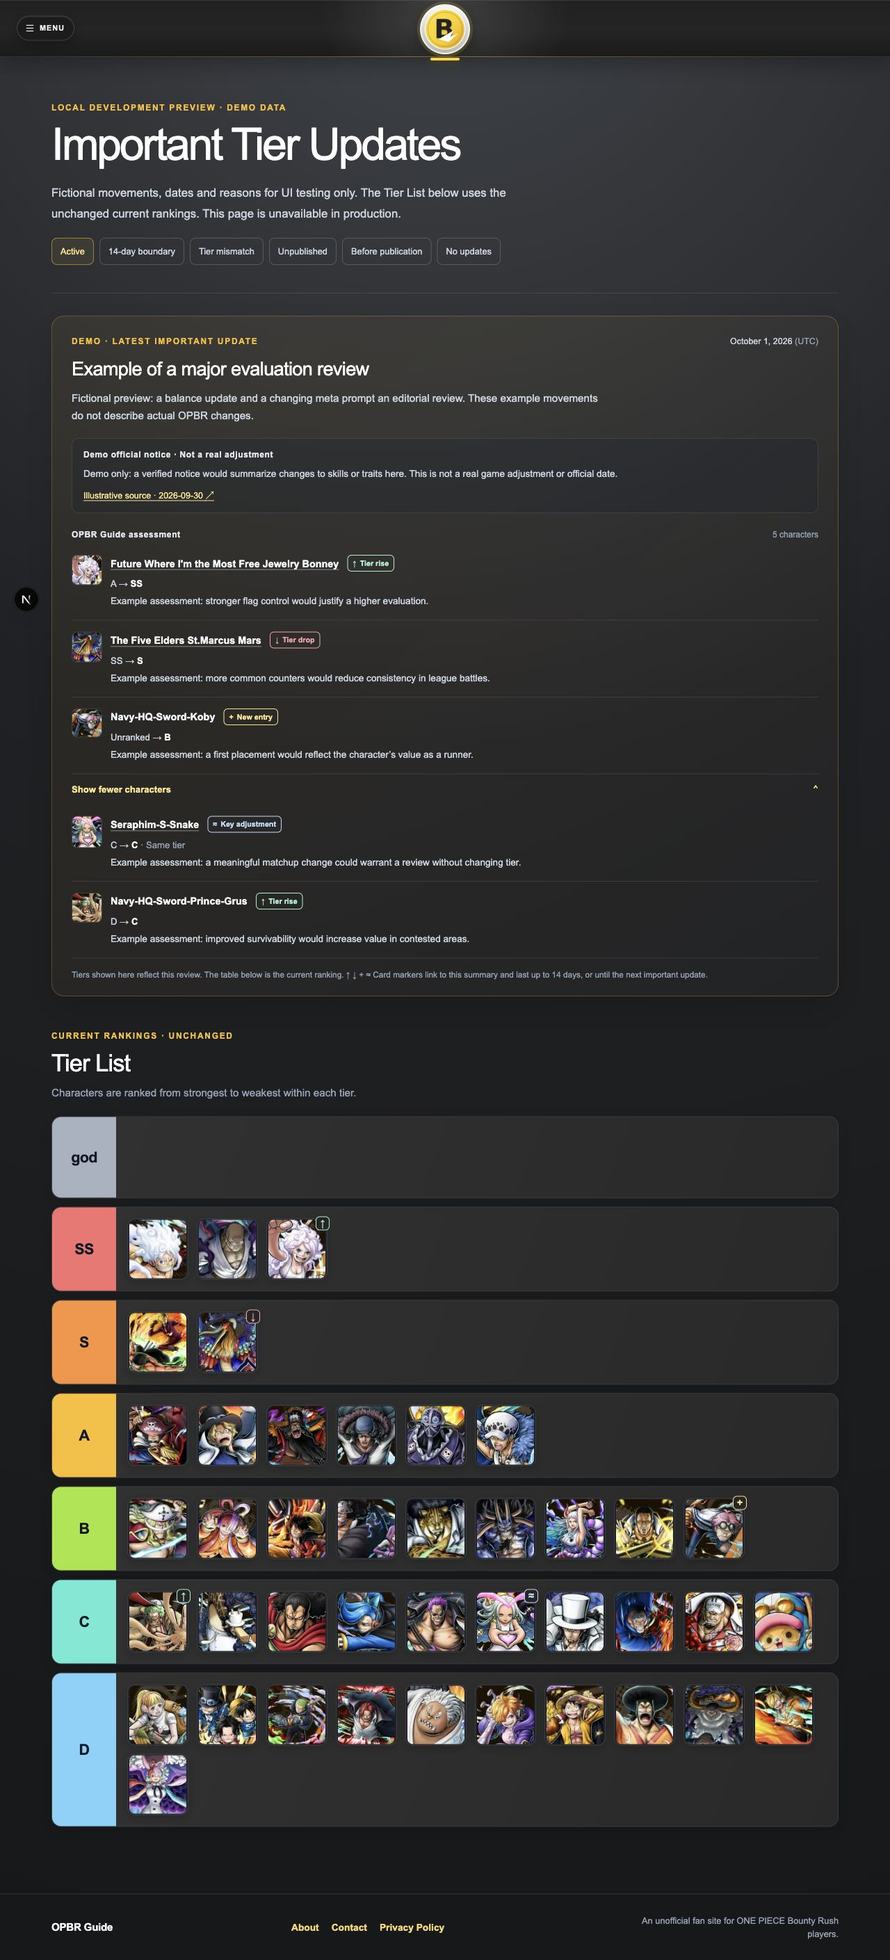
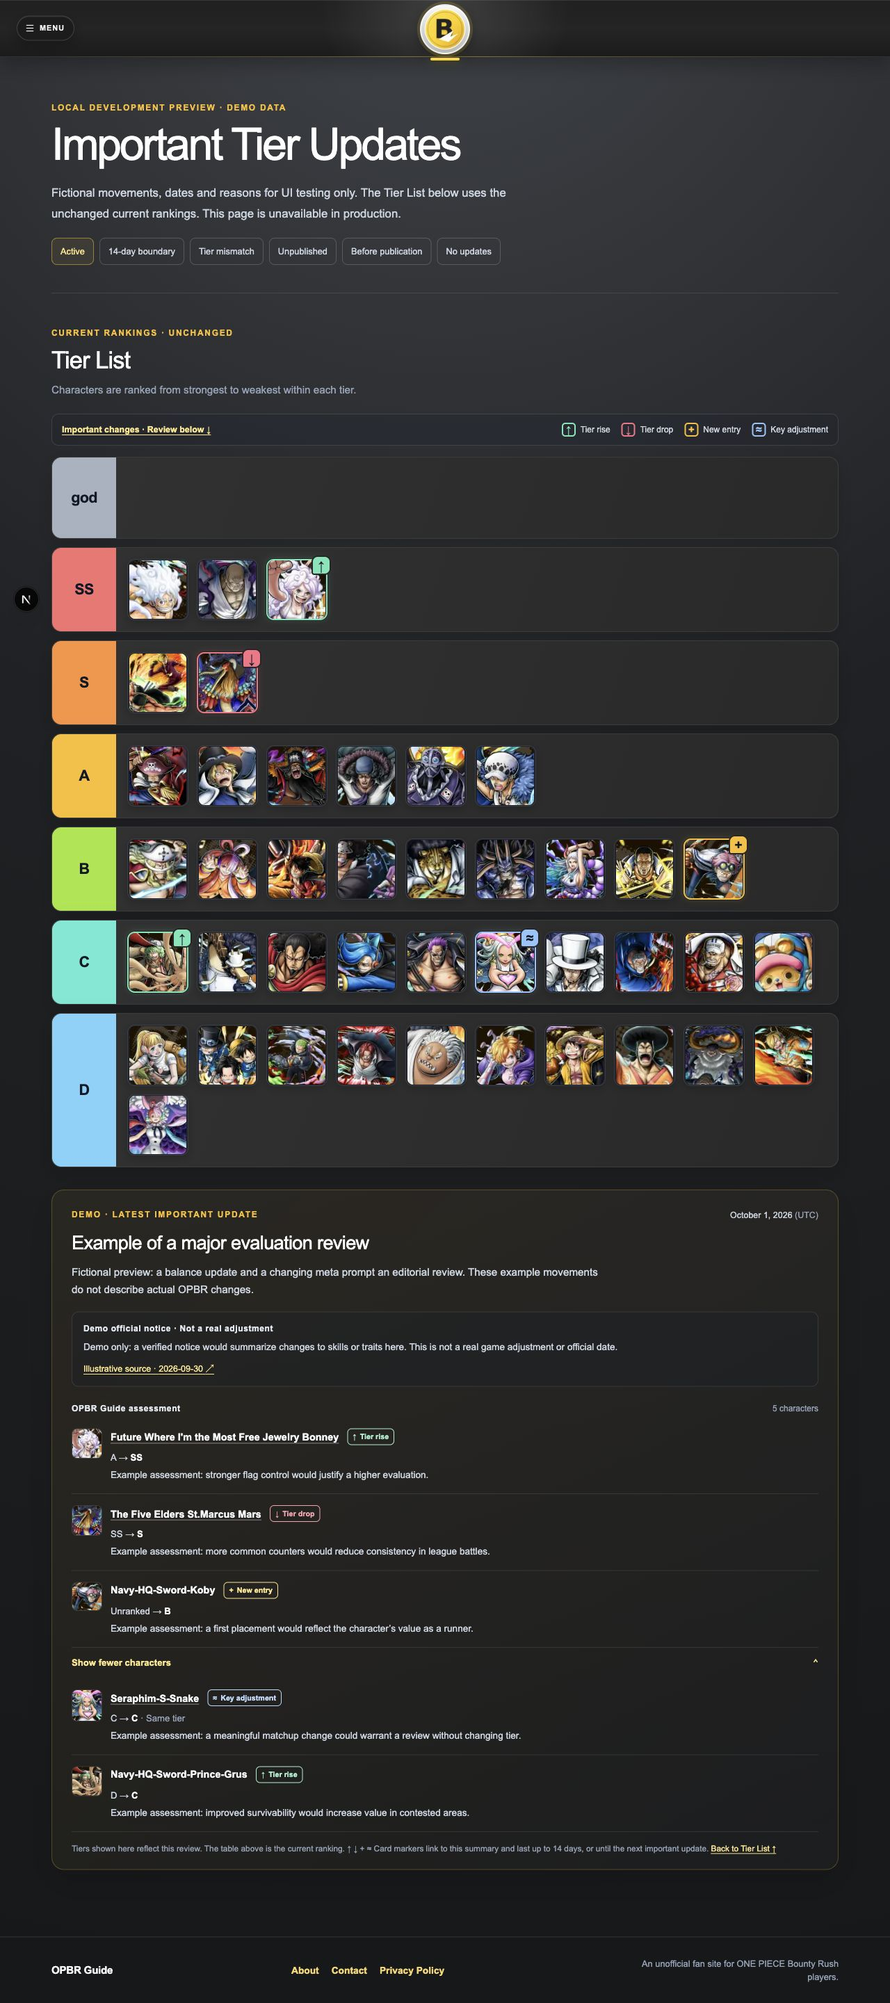
Move Tier update review below rankings and highlight card frames

diff --git a/src/components/tier-list/TierList.tsx b/src/components/tier-list/TierList.tsx
@@ -6,55 +6,59 @@ import { characters } from "@/data/characters/index";
 import { tierList } from "@/data/tierList";
 
 import TierUpdateBadge from "./TierUpdateBadge";
+import TierUpdateLegend from "./TierUpdateLegend";
 import type { TierUpdateBadge as Badge } from "@/lib/tier-important-updates";
 
 export default function TierList({ badges = {}, preview = false }: { badges?: Record<string, Badge>; preview?: boolean }) {
   return (
-    <div className={styles.tierList}>
-      {tierList.map((row, tierIndex) => (
-        <div key={row.tier} className={styles.tier}>
-          <div className={`${styles.tierLabel} ${styles[row.colorClass]}`}>
-            <p>{row.tier}</p>
-          </div>
+    <>
+      {Object.keys(badges).length > 0 && <TierUpdateLegend />}
+      <div className={styles.tierList}>
+        {tierList.map((row, tierIndex) => (
+          <div key={row.tier} className={styles.tier}>
+            <div className={`${styles.tierLabel} ${styles[row.colorClass]}`}>
+              <p>{row.tier}</p>
+            </div>
 
-          <div className={styles.tierContent}>
-            {row.characterIds.map((id, characterIndex) => {
-              const character = characters[id];
+            <div className={styles.tierContent}>
+              {row.characterIds.map((id, characterIndex) => {
+                const character = characters[id];
 
-              if (!character) {
-                return null;
-              }
-              const cardStyle = {
-                "--tier-index": tierIndex,
-                "--character-index": characterIndex,
-              } as CSSProperties;
+                if (!character) {
+                  return null;
+                }
+                const cardStyle = {
+                  "--tier-index": tierIndex,
+                  "--character-index": characterIndex,
+                } as CSSProperties;
 
-              return (
-                <div
-                  key={character.id}
-                  className={styles.characterCard}
-                  style={cardStyle}
-                >
-                  <CharacterGuideLink
-                    characterId={character.id}
-                    characterName={character.name}
-                    className={styles.characterGuideLink}
+                return (
+                  <div
+                    key={character.id}
+                    className={styles.characterCard}
+                    style={cardStyle}
                   >
-                    <Image
-                      src={character.image}
-                      alt={character.name}
-                      width={84}
-                      height={84}
-                      className={styles.characterImage}
-                    />
-                  </CharacterGuideLink>
-                  {badges[id] && <TierUpdateBadge badge={badges[id]} characterName={character.name} preview={preview} />}
-                </div>
-              );
-            })}
+                    <CharacterGuideLink
+                      characterId={character.id}
+                      characterName={character.name}
+                      className={styles.characterGuideLink}
+                    >
+                      <Image
+                        src={character.image}
+                        alt={character.name}
+                        width={84}
+                        height={84}
+                        className={styles.characterImage}
+                      />
+                    </CharacterGuideLink>
+                    {badges[id] && <TierUpdateBadge badge={badges[id]} characterName={character.name} preview={preview} />}
+                  </div>
+                );
+              })}
+            </div>
           </div>
-        </div>
-      ))}
-    </div>
+        ))}
+      </div>
+    </>
   )
 }

diff --git a/src/components/tier-list/TierUpdateBadge.module.css b/src/components/tier-list/TierUpdateBadge.module.css
@@ -1,7 +1,48 @@
-.badge { position: absolute; z-index: 2; top: -4px; right: -4px; display: flex; align-items: center; justify-content: center; width: 20px; height: 20px; border: 1px solid currentColor; border-radius: 6px; background: #262626; font-size: 14px; line-height: 1; font-weight: 800; }
-.rise { color: #a7f3d0; }
-.fall { color: #fda4af; }
-.new { color: #fde68a; }
-.adjustment { color: #bfdbfe; }
-.badge:focus-visible { outline: 3px solid #fbbf24; outline-offset: 2px; }
-@media (max-width: 640px) { .badge { width: 15px; height: 15px; top: -3px; right: -3px; border-radius: 4px; font-size: 11px; } }
+.rise { --change-color: #6ee7b7; --change-glow: rgb(110 231 183 / 25%); }
+.fall { --change-color: #fb7185; --change-glow: rgb(251 113 133 / 25%); }
+.new { --change-color: #fbbf24; --change-glow: rgb(251 191 36 / 25%); }
+.adjustment { --change-color: #93c5fd; --change-glow: rgb(147 197 253 / 25%); }
+
+.frame {
+  position: absolute;
+  z-index: 2;
+  inset: -1px;
+  border: 2px solid var(--change-color);
+  border-radius: inherit;
+  box-shadow: 0 0 0 1px #262626, 0 0 10px var(--change-glow);
+  pointer-events: none;
+}
+.badge {
+  position: absolute;
+  top: -5px;
+  right: -5px;
+  display: flex;
+  align-items: center;
+  justify-content: center;
+  width: 24px;
+  height: 24px;
+  border: 1px solid var(--change-color);
+  border-radius: 7px 7px 7px 2px;
+  background: var(--change-color);
+  box-shadow: 0 0 0 2px #262626;
+  color: #111827;
+  font-size: 19px;
+  line-height: 1;
+  font-weight: 900;
+  pointer-events: auto;
+}
+.frame:has(.badge:focus-visible) { outline: 3px solid #fff; outline-offset: 3px; }
+.badge:focus-visible { outline: 2px solid #111827; outline-offset: -3px; }
+
+.legend { display: flex; flex-wrap: wrap; align-items: center; justify-content: space-between; gap: 12px; margin-bottom: 16px; padding: 12px 14px; border: 1px solid rgb(255 255 255 / 12%); border-radius: 10px; background: rgb(15 23 42 / 15%); }
+.legendLink { color: #fde68a; font-size: .78rem; font-weight: 700; line-height: 1.6; text-decoration: underline; text-underline-offset: 3px; }
+.legendLink:focus-visible { outline: 3px solid #fbbf24; outline-offset: 4px; }
+.legend ul { display: flex; flex-wrap: wrap; gap: 12px 16px; list-style: none; margin: 0; padding: 0; }
+.legend li { display: flex; align-items: center; gap: 7px; color: #cbd5e1; font-size: .75rem; }
+.legendSymbol { display: flex; align-items: center; justify-content: center; width: 20px; height: 20px; border: 2px solid var(--change-color); border-radius: 5px; color: var(--change-color); font-size: 15px; line-height: 1; font-weight: 900; }
+
+@media (max-width: 640px) {
+  .badge { width: 18px; height: 18px; top: -4px; right: -4px; border-radius: 5px 5px 5px 1px; font-size: 15px; box-shadow: 0 0 0 1px #262626; }
+  .legend { padding: 12px; gap: 10px; }
+  .legend ul { display: grid; grid-template-columns: repeat(2, minmax(0, 1fr)); gap: 10px 14px; width: 100%; }
+}

diff --git a/src/components/tier-list/ImportantTierUpdate.tsx b/src/components/tier-list/ImportantTierUpdate.tsx
@@ -25,7 +25,7 @@ function Change({ change, currentTier }: { change: ImportantTierChange; currentT
           {change.kind === "adjustment" && <span className={styles.sameTier}> · Same tier</span>}
         </p>
         <p className={styles.reason}>{change.reason}</p>
-        {changedSince && <p className={styles.current}>At publication: {change.toTier}. Current tier: {currentTier ?? "Unranked"}. Rankings below take priority.</p>}
+        {changedSince && <p className={styles.current}>At publication: {change.toTier}. Current tier: {currentTier ?? "Unranked"}. Rankings above take priority.</p>}
       </div>
     </li>
   );
@@ -67,7 +67,7 @@ export default function ImportantTierUpdate({ update, currentTiers, demo = false
           <ul className={styles.changes}>{additional.map((change) => <Change key={change.characterId} change={change} currentTier={currentTiers[change.characterId]} />)}</ul>
         </details>
       )}
-      <p className={styles.note}>Tiers shown here reflect this review. The table below is the current ranking. <span aria-hidden="true">↑ ↓ + ≈</span> Card markers link to this summary and last up to 14 days, or until the next important update.</p>
+      <p className={styles.note}>Tiers shown here reflect this review. The table above is the current ranking. <span aria-hidden="true">↑ ↓ + ≈</span> Card markers link to this summary and last up to 14 days, or until the next important update. <a href="#tier-list-heading">Back to Tier List ↑</a></p>
     </section>
   );
 }

diff --git a/src/app/(mainPages)/tier-list/preview/page.tsx b/src/app/(mainPages)/tier-list/preview/page.tsx
@@ -27,11 +27,12 @@ export default async function TierUpdatePreview({ searchParams }: { searchParams
           </nav>
         </section>
         {!update && <p className={previewStyles.empty}>No published important update at the simulated time. Production renders no update panel or card markers in this state.</p>}
-        <ImportantTierUpdate update={update} currentTiers={currentTiers} demo />
         <section className={styles.tierSection} aria-labelledby="tier-list-heading">
-          <div className={styles.sectionHeading}><p className={styles.sectionKicker}>Current rankings · Unchanged</p><h2 id="tier-list-heading">Tier List</h2><p>Characters are ranked from strongest to weakest within each tier.</p></div>
+          <div className={styles.sectionHeading}><p className={styles.sectionKicker}>Current rankings · Unchanged</p><h2 id="tier-list-heading" tabIndex={-1}>Tier List</h2><p>Characters are ranked from strongest to weakest within each tier.</p></div>
           <TierList badges={badges} preview />
         </section>
+
+        <ImportantTierUpdate update={update} currentTiers={currentTiers} demo />
       </div>
     </main>
   );

diff --git a/src/app/(mainPages)/tier-list/page.tsx b/src/app/(mainPages)/tier-list/page.tsx
@@ -35,17 +35,17 @@ export default async function TierListPage() {
           </p>
         </section>
 
-        <ImportantTierUpdate update={update} currentTiers={currentTiers} />
-
         {/* Tier List */}
         <section className={styles.tierSection} aria-labelledby="tier-list-heading">
           <div className={styles.sectionHeading}>
             <p className={styles.sectionKicker}>Current rankings</p>
-            <h2 id="tier-list-heading">Tier List</h2>
+            <h2 id="tier-list-heading" tabIndex={-1}>Tier List</h2>
             <p>Characters are ranked from strongest to weakest within each tier.</p>
           </div>
           <TierList badges={badges} />
         </section>
+
+        <ImportantTierUpdate update={update} currentTiers={currentTiers} />
 
         {/* それぞれのキャラのランキング変動 */}
 

diff --git a/src/components/tier-list/TierUpdateLegend.tsx b/src/components/tier-list/TierUpdateLegend.tsx
@@ -1,0 +1,19 @@
+import { tierChangeLabels } from "@/lib/tier-important-updates";
+import type { TierChangeKind } from "@/data/tier-important-updates";
+import styles from "./TierUpdateBadge.module.css";
+
+const kinds: TierChangeKind[] = ["rise", "fall", "new", "adjustment"];
+
+export default function TierUpdateLegend() {
+  return (
+    <aside className={styles.legend} aria-label="Important update markers">
+      <a className={styles.legendLink} href="#tier-important-update">Important changes · Review below ↓</a>
+      <ul>{kinds.map((kind) => (
+        <li key={kind}>
+          <span className={`${styles.legendSymbol} ${styles[kind]}`} aria-hidden="true">{tierChangeLabels[kind].symbol}</span>
+          {tierChangeLabels[kind].label}
+        </li>
+      ))}</ul>
+    </aside>
+  );
+}

diff --git a/src/components/tier-list/TierUpdateBadge.tsx b/src/components/tier-list/TierUpdateBadge.tsx
@@ -20,5 +20,11 @@ export default function TierUpdateBadge({ badge, characterName, preview = false 
   }, [badge.expiresAt, preview]);
   if (expired) return null;
   const { label, symbol } = tierChangeLabels[badge.kind];
-  return <a className={`${styles.badge} ${styles[badge.kind]}`} href="#tier-important-update" aria-label={`${characterName}: ${label}. Read important update summary.`}><span aria-hidden="true">{symbol}</span></a>;
+  return (
+    <span className={`${styles.frame} ${styles[badge.kind]}`}>
+      <a className={styles.badge} href="#tier-important-update" aria-label={`${characterName}: ${label}. Read important update summary.`}>
+        <span aria-hidden="true">{symbol}</span>
+      </a>
+    </span>
+  );
 }

diff --git a/src/components/tier-list/ImportantTierUpdate.module.css b/src/components/tier-list/ImportantTierUpdate.module.css
@@ -42,6 +42,7 @@
 .more[open] .closedLabel { display: none; }
 .more[open] .openLabel { display: inline; }
 .more[open] .chevron { transform: rotate(180deg); }
+.note a { color: #fde68a; text-decoration: underline; text-underline-offset: 3px; }
 .note { margin: 14px 0 0; color: #94a3b8; font-size: .74rem; line-height: 1.65; }
 .panel:focus-visible, .panel a:focus-visible, .more summary:focus-visible { outline: 3px solid #fbbf24; outline-offset: 4px; border-radius: 4px; }
 .srOnly { position: absolute; width: 1px; height: 1px; padding: 0; margin: -1px; overflow: hidden; clip-path: inset(50%); white-space: nowrap; border: 0; }

diff --git a/src/app/(mainPages)/tier-list/page.module.css b/src/app/(mainPages)/tier-list/page.module.css
@@ -117,3 +117,6 @@
     border-radius: 14px;
   }
 }
+
+.sectionHeading h2 { scroll-margin-top: calc(var(--site-header-height) + 20px); }
+.sectionHeading h2:focus-visible { outline: 3px solid #fbbf24; outline-offset: 4px; }

diff --git a/docs/tier-important-updates.md b/docs/tier-important-updates.md
@@ -2,7 +2,7 @@
 
 ## Scope and current publication state
 
-Adds one latest editorially registered important-update summary before the existing Tier List, plus small affected-character markers. Uses the existing dark background, gold accents, rounded panels, typography and spacing. The first three characters are visible; native disclosure shows the rest, including keyboard operation and operation without JavaScript. Rise/drop/new entry/same-tier important adjustment use both symbols and text. Official notices and OPBR Guide's assessment are separate sections.
+Adds one latest editorially registered important-update summary below the existing Tier List, plus affected-character colored frames and matching direction tabs. Uses the existing dark background, gold accents, rounded panels, typography and spacing. The first three characters are visible; native disclosure shows the rest, including keyboard operation and operation without JavaScript. Rise/drop/new entry/same-tier important adjustment use both symbols and text. Official notices and OPBR Guide's assessment are separate sections.
 
 **Production events are intentionally empty.** Git history confirms placement edits but does not establish official notice dates or the editorial reasons for a major review. No fictional OPBR change is published. `/tier-list` therefore shows the existing page with no additional panel or markers. Its hard-coded `Last updated: September 18, 2026` is preserved. The preview uses explicitly fictional examples with existing character art; it never changes `src/data/tierList.ts`.
 
@@ -19,7 +19,7 @@ Edit `src/data/tier-important-updates.ts` after verifying a real event. Registra
 - Set `published` only when approved for publication. Scheduled future events and drafts are not displayed early. Sort order in the data file does not matter; the newest published event at request time wins. Avoid identical publication timestamps; ties resolve deterministically by event ID.
 - Update the existing current rankings separately when justified; this UI never changes them. The page's existing Last updated string remains separately maintained.
 
-Markers are active from publication **inclusive** until 14 elapsed days later **exclusive**, or the next registered published event, whichever comes first. Only the latest event receives markers. Drafts do not terminate them. If an event's target tier differs from the current tier (or the character is no longer ranked), its marker is suppressed and its row explains the current placement. Expired summaries remain explicitly dated, with the current table taking priority. Marker links jump to the visible summary, including for characters inside the disclosure; the original portrait guide link stays separate.
+Markers are active from publication **inclusive** until 14 elapsed days later **exclusive**, or the next registered published event, whichever comes first. Only the latest event receives markers. Drafts do not terminate them. If an event's target tier differs from the current tier (or the character is no longer ranked), its marker is suppressed and its row explains the current placement. Expired summaries remain explicitly dated, with the current table taking priority. Marker links jump to the visible summary, including for characters inside the disclosure; the original portrait guide link stays separate. A legend above the table explains all four symbols and links to the review below; a return link focuses the Tier List heading with a fixed-header offset.
 
 With events registered, `connection()` enables request-time selection so scheduled publication/expiry does not freeze at build time. Markers also remove themselves at their deadline on an already-open browser page. A newly published summary requires navigation/reload; no notification or polling system is added. Device clock accuracy affects the client-side expiry, while the server is authoritative on each request. With no events, the production page remains static.
 
@@ -44,7 +44,7 @@ Scenario links cover active, exact 14-day cutoff, current-tier mismatch, draft, 
 | `npm run build` | Pass | Next 16.3.4 Webpack; production Tier List stays static; existing Inter font fetched with approved network access |
 | `TEST_BASE_URL=http://127.0.0.1:3211 npm run test:http` | Pass | Existing 4 HTTP regression tests on production server |
 | Production demo guard and empty state | Pass | Browser shows 404 for preview; production Tier List has zero panels/markers; date, criteria and original guide links present |
-| Desktop 1280×900 and narrow mobile 320×800 | Pass | Actual supported in-app browser; document width 320px, computed card width 48px; screenshots below |
+| Desktop 1280×900 and mobile 320×800 / 390×844 | Pass | Actual supported in-app browser; document width matches both mobile viewports, all 41 computed card widths are 48px; screenshots below |
 | Disclosure and keyboard | Pass | Repeated click/Enter/Space expands and collapses, correct labels; Tab reaches expanded guide link with solid focus outline |
 | Links | Pass | Marker focuses summary at safe header offset; original Bonney portrait opens its guide; expanded S-Snake link opens its guide via Enter |
 | Visual boundary states | Pass | Expired: dated panel and zero markers; mismatch: explicit current tier and 4 markers rather than 5; draft: no panel/markers |
@@ -56,11 +56,28 @@ The first sandbox-only build and HTTP attempt failed because network/localhost a
 Screenshots capture development demo content, not actual game history:
 
 - [Desktop expanded](tier-update-qa/desktop-expanded.jpg)
-- [Mobile collapsed](tier-update-qa/mobile-collapsed.jpg)
+- [Mobile 320px collapsed](tier-update-qa/mobile-collapsed.jpg)
+- [Mobile 390px collapsed](tier-update-qa/mobile-390-collapsed.jpg)
+- [Desktop colored cards](tier-update-qa/desktop-cards.jpg)
+- [Mobile 390px colored cards](tier-update-qa/mobile-390-cards.jpg)
 - [Production empty state, mobile](tier-update-qa/production-empty-mobile.jpg)
 
 ## Changed files
 
-Existing minimal connections: `src/app/(mainPages)/tier-list/page.tsx`, `src/components/tier-list/TierList.tsx`, `src/components/tier-list/TierList.module.css` (only adds relative positioning).
+Existing minimal connections: `src/app/(mainPages)/tier-list/page.tsx`, `src/components/tier-list/TierList.tsx`, `src/components/tier-list/TierList.module.css` (only adds relative positioning); the Tier List page CSS adds focused-heading and anchor-offset styles.
 
-New: `ImportantTierUpdate.tsx/.module.css`, `TierUpdateBadge.tsx/.module.css` under the Tier List components; `src/data/tier-important-updates.ts`; `src/lib/tier-important-updates.ts`; development `tier-list/preview/page.tsx` and its CSS; fixture and dedicated test; this record and three screenshots. No dependency/configuration/test-script changes.
+New: `ImportantTierUpdate.tsx/.module.css`, `TierUpdateBadge.tsx/.module.css` under the Tier List components; `src/data/tier-important-updates.ts`; `src/lib/tier-important-updates.ts`; development `tier-list/preview/page.tsx` and its CSS; fixture and dedicated test; this record and screenshots. The UI revision also adds `TierUpdateLegend.tsx`. No dependency/configuration/test-script changes.
+
+## Feedback revision: summary below the table and stronger card frames
+
+Continued from `02dee1d743345a72659fd22fc66e44a299b30eee` on the existing dedicated branch/worktree, with no starting differences. The summary now follows all tier rows in both the production page and development preview. Historical-tier notes refer to rankings above.
+
+Affected cards have a 2px colored frame with a static soft edge and a filled corner tab matching that frame: mint ↑ for rise, rose ↓ for drop, gold + for new entry, blue ≈ for same-tier adjustment. The palette is distinct from the row background; symbols and the text legend provide non-color cues. The tab stays at the portrait edge, with no explanation over the face. Card geometry remains 88px desktop / 48px mobile, images and ordinary guide links are preserved. Decoration passes pointer events through to the portrait except for the separate tab link. The frame and tab are removed together by the existing expiry component. No new animation is added.
+
+Calculated contrast ratios against `#262626` for frame colors are rise 9.93, drop 5.62, new 9.07, same-tier 8.39. Dark tab symbols (`#111827`) contrast with their filled tab at 11.64, 6.59, 10.63, 9.84 respectively. A white outer focus outline highlights the frame during keyboard use.
+
+Revision checks: lint, TypeScript, 11 core tests, 6 important-update tests, production build, HTTP regression and diff check all pass. Actual 1280/320/390px browser verification covered all four frame types, no horizontal overflow, preserved card size, separate portrait guide navigation, tab/legend links to the lower review, return-link focus/offset, native disclosure click/Enter/Space and Tab, expiry (zero frames and legend), mismatch (four frames and explicit current tier), draft and empty (zero frames/panel). No browser errors were recorded. Screenshots listed above were refreshed for this layout. Real-phone and screen-reader speech verification remains unperformed.
+
+The production event registry and fixture content were not changed. Main and unrelated worktrees were untouched. Available disk space was about 15GiB at revision start, so no storage blocker prevented validation.
+
+At revision completion, the original `main` checkout still pointed to `774021265d7f307abdcfd60b1c0c816441b216ee`. Concurrent Nusjuro-guide changes were present in its guide draft, character guide page, guide index/types and a new Nusjuro guide data file; all were left untouched. The dedicated worktree contains only this Tier List work.
